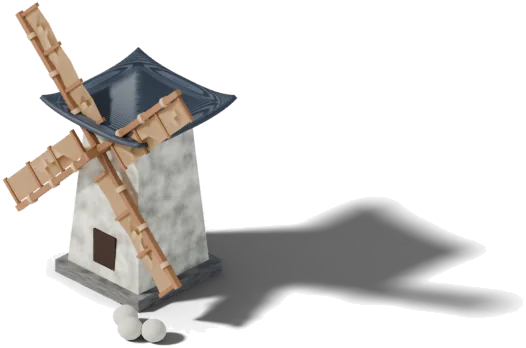
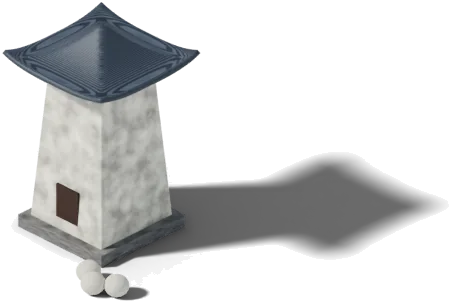
Settlers march out and spread evenly at the start; mills turn their sails
At the start the settlers and the soldiers not garrisoned leave the castle one
by one, half a second apart, and walk to spots spread evenly over its land;
idle settlers then wait within nine tiles of storage so the spread holds.
Mills have their sails rendered as a separate layer in 8 steps of a quarter
turn, drawn over the mill and turning while the miller works.

diff --git a/packages/simulation/src/step.ts b/packages/simulation/src/step.ts
@@ -16,7 +16,7 @@ import { decideShip, launchShip } from './sea.ts';
 import { expireSpells, maxHealth } from './magic.ts';
 import {
   FIELD_RIPE, NO_FIELD, NO_TREE, TERRAIN_GRASS, TERRAIN_MOUNTAIN, TERRAIN_WATER, TREE_MATURE,
-  buildingById, castleOf, inBounds, isMilitaryBuilding, isStorageBuilding, isWalkable, newSettler, playerOf, pushMessage,
+  WAIT_RADIUS, buildingById, castleOf, inBounds, isMilitaryBuilding, isStorageBuilding, isWalkable, newSettler, playerOf, pushMessage,
   recomputeTerritory, settlerById, siteCost, storedTotal, tileIndex, isEnemy
 } from './world.ts';
 import type { Building, PlayerState, Settler, World } from './world.ts';
@@ -86,6 +86,7 @@ export function step(world: World, commands: readonly Command[] = []): CommandRe
   if (world.tick % HEAL_TICKS === 0) healSoldiers(world);
   fillGarrisons(world);
   sendDefenders(world);
+  for (const s of world.settlers) if (s.phase === 'leaving') updateLeaving(world, s);
   for (const s of world.settlers) if (!isUnitType(s.settlerType)) updateSettler(world, s);
   // Soldiers and war machines act in alternating order each tick, so no player always strikes first.
   const soldiers = world.settlers.filter((s) => isUnitType(s.settlerType));
@@ -456,6 +457,8 @@ function updateSettler(world: World, s: Settler): void {
     return;
   }
   switch (s.phase) {
+    // Still waiting for its turn to come out (updateLeaving).
+    case 'leaving': return;
     case 'idle': return updateIdle(world, s);
     case 'toStore': return updateToStore(world, s);
     case 'toPickup': return updatePickup(world, s);
@@ -470,8 +473,6 @@ function updateSettler(world: World, s: Settler): void {
   }
 }
 
-/** How far from a storage area's door idle settlers wait, in tiles. */
-const WAIT_RADIUS = 4;
 
 /**
  * Idle settlers stay in the world: they wait outside, near the nearest storage area on their land, each on a tile of
@@ -490,16 +491,30 @@ function updateIdle(world: World, s: Settler): void {
   if (s.timer > 0) { s.timer--; return; }
   if (s.path.length > 0) { advance(world, s); return; }
   const home = storageFor(world, s.owner, 'log', s.x, s.y, false);
-  if (!home || distance(s.x, s.y, home.doorX, home.doorY) <= WAIT_RADIUS) return;
+  if (!home || distance(s.x, s.y, home.x + home.size / 2 - 0.5, home.y + home.size / 2 - 0.5) <= WAIT_RADIUS) return;
   // Cut off from storage: wait a while before trying again.
   if (!walkTo(world, s, waitingTile(world, s, home))) s.timer = 50;
 }
 
-/** A free spot of the settler's own land near a storage area's door, out of its doorway, to wait on. */
+/**
+ * A settler waiting in a building to come out: when its turn comes it steps out of the door and walks to its spot,
+ * a soldier under orders, a civilian as an idle settler on its way to wait there.
+ */
+function updateLeaving(world: World, s: Settler): void {
+  if (s.timer > 0) { s.timer--; return; }
+  const home = buildingById(world, s.homeId) ?? world.buildings.find((b) => b.owner === s.owner && b.typeId === 'castle');
+  if (home) { s.x = home.doorX; s.y = home.doorY; s.prevX = s.x; s.prevY = s.y; }
+  s.isInside = false; s.homeId = null;
+  const spot = s.targetTile; s.targetTile = -1;
+  const isUnit = isUnitType(s.settlerType) || isSpecialistType(s.settlerType) || s.settlerType === 'priest';
+  s.phase = spot >= 0 && walkTo(world, s, spot) && isUnit ? 'moving' : 'idle';
+}
+
+/** A free spot of the settler's own land near a storage area, out of its doorway, to wait on. */
 function waitingTile(world: World, s: Settler, store: Building): number {
   let best = doorTile(world, store), bestDistance = Infinity;
-  for (let dy = -WAIT_RADIUS + 1; dy <= WAIT_RADIUS - 1; dy++) {
-    for (let dx = -WAIT_RADIUS + 1; dx <= WAIT_RADIUS - 1; dx++) {
+  for (let dy = -4; dy <= 4; dy++) {
+    for (let dx = -4; dx <= 4; dx++) {
       const x = store.doorX + dx, y = store.doorY + dy;
       if (!inBounds(world, x, y)) continue;
       const i = tileIndex(world, x, y);

diff --git a/packages/simulation/src/world.ts b/packages/simulation/src/world.ts
@@ -105,7 +105,9 @@ export type SettlerPhase =
   | 'idle' | 'toPickup' | 'toDrop' | 'toStore' | 'toSite' | 'leveling' | 'building'
   | 'toTool' | 'toWork' | 'inside' | 'toTarget' | 'working' | 'returning'
   | 'toRecruit' | 'toGarrison' | 'defending' | 'moving' | 'attacking'
-  | 'prospecting' | 'claiming' | 'stealing';
+  | 'prospecting' | 'claiming' | 'stealing'
+  /** Waiting inside a building to come out, one after another, and walk to its spot (`targetTile`). */
+  | 'leaving';
 
 export interface Settler {
   id: number;
@@ -793,6 +795,7 @@ function placeCastle(world: World, owner: number, x: number, y: number): void {
   const total = scaled((STARTING_STOCK.plank ?? 0) + (STARTING_STOCK.stone ?? 0), factors.goods);
   castle.stock.plank = Math.round(total * RACE_PLANK_SHARE[race]);
   castle.stock.stone = total - castle.stock.plank;
+  const leaving: Settler[] = [];
   for (const [type, base] of Object.entries(STARTING_SETTLERS) as [SettlerType, number][]) {
     const count = scaled(base, isSoldierType(type) ? factors.soldiers : factors.settlers);
     for (let i = 0; i < count; i++) {
@@ -800,11 +803,50 @@ function placeCastle(world: World, owner: number, x: number, y: number): void {
       if (isSoldierType(type) && castle.garrison.length < castle.garrisonWanted) {
         castle.garrison.push(s.id);
         s.phase = 'inside'; s.homeId = castle.id;
-      } else {
-        // Everyone else waits outside the castle: the rest of the soldiers free to be sent to towers or into battle,
-        // the civilians ready for work. They spread out to a tile each in their first moments.
-        s.isInside = false;
-      }
+      } else leaving.push(s);
     }
   }
+  // Everyone else comes out of the castle one after another and spreads evenly over its land: the soldiers free to
+  // be sent to towers or into battle, the civilians ready for work. Mixed, so neither crowds one side.
+  leaving.sort((a, b) => (a.id * 7919) % 101 - (b.id * 7919) % 101 || a.id - b.id);
+  const spots = spreadSpots(world, castle, leaving.length);
+  leaving.forEach((s, k) => {
+    s.phase = 'leaving'; s.timer = 5 + k * LEAVE_GAP_TICKS; s.targetTile = spots[k % spots.length] ?? -1;
+  });
 }
+
+/** Ticks between two settlers coming out of a building, so they leave one by one. */
+export const LEAVE_GAP_TICKS = 5;
+
+/**
+ * Spots spread evenly over a building's surroundings, nearest first: a sunflower spiral from just outside the
+ * building to `WAIT_RADIUS` tiles from its middle, each spot a free walkable tile out of every doorway.
+ */
+export function spreadSpots(world: World, b: Building, count: number): number[] {
+  const cx = b.x + b.size / 2, cy = b.y + b.size / 2;
+  const inner = b.size / 2 + 1.5, outer = WAIT_RADIUS - 0.5;
+  const taken = new Set<number>();
+  const spots: number[] = [];
+  for (let k = 0; k < count; k++) {
+    const r = inner + (outer - inner) * Math.sqrt((k + 0.5) / Math.max(1, count));
+    const a = k * 2.399963;
+    const tx = Math.round(cx - 0.5 + Math.cos(a) * r), ty = Math.round(cy - 0.5 + Math.sin(a) * r);
+    // The nearest free tile to the spiral's point.
+    let best = -1, bestDistance = Infinity;
+    for (let dy = -2; dy <= 2; dy++) {
+      for (let dx = -2; dx <= 2; dx++) {
+        const x = tx + dx, y = ty + dy;
+        if (!inBounds(world, x, y)) continue;
+        const i = tileIndex(world, x, y);
+        if (taken.has(i) || world.door[i] !== 0 || !isWalkable(world, i)) continue;
+        const d = Math.hypot(dx, dy);
+        if (d < bestDistance) { bestDistance = d; best = i; }
+      }
+    }
+    if (best >= 0) { taken.add(best); spots.push(best); }
+  }
+  return spots;
+}
+
+/** How far from a storage area's middle idle settlers wait, in tiles. */
+export const WAIT_RADIUS = 9;

diff --git a/packages/client/src/renderer.ts b/packages/client/src/renderer.ts
@@ -85,6 +85,8 @@ interface BuildingView {
   root: Container; body: Sprite; scaffold: Sprite; mask: Graphics; marks: Graphics; label: Text; key: string;
   /** Goods piled in the yard and soldiers on the walls, in front of the building and sorted with the settlers. */
   piles: Container; guards: Container;
+  /** A mill's sails, turning while the miller works. */
+  sails: Sprite;
   /** When the building left the world and began to collapse, and where its sprite stood then. */
   collapsedAt?: number; collapseY?: number;
   /** The building's middle, in tiles, for the sound of its collapse. */
@@ -364,8 +366,8 @@ export class MapView {
         });
         label.anchor.set(0.5, 1);
         v = { root: new Container(), body: new Sprite(), scaffold: new Sprite(), mask: new Graphics(), marks: new Graphics(), label, key: '',
-          piles: new Container(), guards: new Container() };
-        v.root.addChild(v.scaffold, v.body, v.mask, v.guards, v.marks, v.label);
+          piles: new Container(), guards: new Container(), sails: new Sprite() };
+        v.root.addChild(v.scaffold, v.body, v.sails, v.mask, v.guards, v.marks, v.label);
         this.upright.addChild(v.root, v.piles);
         this.buildingViews.set(b.id, v);
       }
@@ -388,6 +390,7 @@ export class MapView {
         v.body.mask = v.mask; v.mask.visible = true;
       } else if (v.body.mask) { v.body.mask = null; v.mask.clear(); v.mask.visible = false; }
       v.body.alpha = isRising ? 0.95 : 1;
+      this.drawSails(b, v, cx, cy);
       this.drawBuildingMarks(b, v, cx, cy, !!art, state);
       this.drawPiles(b, v);
       this.drawGuards(b, v, !!art);
@@ -403,7 +406,7 @@ export class MapView {
         v.collapsedAt ??= now;
         const t = (now - v.collapsedAt) / COLLAPSE_MS;
         if (t < 1) {
-          v.piles.visible = false; v.guards.visible = false; v.label.visible = false; v.scaffold.visible = false;
+          v.piles.visible = false; v.guards.visible = false; v.label.visible = false; v.scaffold.visible = false; v.sails.visible = false;
           v.collapseY ??= v.body.y;
           const h = v.body.height;
           // Sinks fast at first, then settles; fades in the second half.
@@ -472,6 +475,17 @@ export class MapView {
     for (let j = k; j < v.piles.children.length; j++) v.piles.children[j].visible = false;
     // In front of the building, sorted with the settlers walking past.
     v.piles.zIndex = b.x + b.y + b.size + 0.1;
+  }
+
+  /** A finished mill's sails: turning a quarter in 8 steps while the miller grinds, at rest otherwise. */
+  private drawSails(b: Building, v: BuildingView, cx: number, cy: number): void {
+    if (b.typeId !== 'mill' || !b.isComplete) { v.sails.visible = false; return; }
+    const worker = b.workerId === null ? undefined : this.world.settlers.find((s) => s.id === b.workerId);
+    const isTurning = !!worker && worker.phase === 'working' && !b.isPaused;
+    const frame = isTurning ? Math.floor(performance.now() / 90) % 8 : b.id % 8;
+    const art = this.bank.buildingPart(this.raceOf(b.owner), `mill_sails_${frame}`);
+    v.sails.visible = !!art && v.body.visible;
+    if (art) this.place(v.sails, art, cx, cy);
   }
 
   /** Soldiers inside a tower or castle stand on its walls, as many as are inside, up to what the top holds. */

diff --git a/packages/simulation/test/spacing.test.ts b/packages/simulation/test/spacing.test.ts
@@ -1,6 +1,6 @@
 import { test } from 'node:test';
 import assert from 'node:assert/strict';
-import { castleOf, createMatch, newBuilding, newSettler, step, tileIndex } from '../src/index.ts';
+import { WAIT_RADIUS, castleOf, createMatch, newBuilding, newSettler, step, tileIndex } from '../src/index.ts';
 
 test('settlers standing still keep a tile each, next to each other, and keep doors free', () => {
   const world = createMatch(5, 'calm', 'small', 'romans', 'romans');
@@ -27,7 +27,7 @@ test('settlers stay in the world: idle ones wait outside near storage, and step 
   assert.ok(idle.length >= 10, 'the starting carriers wait for work');
   for (const s of idle) {
     assert.equal(s.isInside, false, 'outside, not in the castle');
-    assert.ok(Math.hypot(s.x - castle.doorX, s.y - castle.doorY) <= 6, 'near the castle');
+    assert.ok(Math.hypot(s.x - (castle.x + 1.5), s.y - (castle.y + 1.5)) <= WAIT_RADIUS + 0.5, 'around the castle');
   }
   const tiles = idle.map((s) => tileIndex(world, Math.round(s.x), Math.round(s.y)));
   assert.equal(new Set(tiles).size, tiles.length, 'a tile each');

diff --git a/packages/simulation/test/settlers.test.ts b/packages/simulation/test/settlers.test.ts
@@ -161,9 +161,11 @@ test('a geologist takes a hammer, marks the ore on a mountain, and hands the ham
   assert.equal(command(world, { type: 'moveSpecialists', playerId: 0, settlerIds: [geologist.id], x: m.x + 1, y: m.y + 1 }).isAccepted, true);
   runUntil(world, () => world.prospect[0][tileIndex(world, m.x + 1, m.y + 1)] === 1, 2000);
   assert.equal(world.prospect[1]?.[0], undefined, 'a sandbox has one player');
+  // Dismissed, he hands his hammer back (spare builders may have returned theirs meanwhile, so count from here).
+  const before = castle.stock.hammer;
   assert.equal(command(world, { type: 'setSpecialists', playerId: 0, specialistType: 'geologist', count: 0 }).isAccepted, true);
   assert.equal(geologist.settlerType, 'carrier');
-  assert.equal(castle.stock.hammer, hammers);
+  assert.equal(castle.stock.hammer, before + 1);
 });
 
 test('pioneers claim neutral land with posts, but never land an enemy tower holds', () => {

diff --git a/packages/simulation/src/commands.ts b/packages/simulation/src/commands.ts
@@ -537,7 +537,8 @@ function setSpecialistCount(world: World, playerId: number, type: SpecialistType
   while (have < count) {
     const store = world.buildings.find((b) => b.owner === playerId && b.isComplete && BUILDING_TYPES[b.typeId].storageCapacity > 0
       && (tool === null || b.stock[tool] - b.reserved[tool] > 0));
-    const carrier = world.settlers.find((s) => s.owner === playerId && s.settlerType === 'carrier' && s.phase === 'idle' && !s.carrying);
+    // Carriers still coming out of the castle at the start count too: they come out as specialists.
+    const carrier = world.settlers.find((s) => s.owner === playerId && s.settlerType === 'carrier' && (s.phase === 'idle' || s.phase === 'leaving') && !s.carrying);
     if (!store || !carrier) break;
     if (tool) store.stock[tool]--;
     carrier.settlerType = type; carrier.phase = 'idle'; carrier.path = []; carrier.workCentre = -1;

diff --git a/packages/simulation/src/vision.ts b/packages/simulation/src/vision.ts
@@ -161,7 +161,8 @@ export function observe(world: World, playerId: number): Observation {
   for (const s of world.settlers) {
     if (s.owner === playerId) {
       settlerCounts[s.settlerType] = (settlerCounts[s.settlerType] ?? 0) + 1;
-      if (s.settlerType === 'carrier' && s.phase === 'idle' && !s.carrying) freeCarriers++;
+      // Carriers still coming out of a building at the start count as free: they are on their way to wait for work.
+      if (s.settlerType === 'carrier' && (s.phase === 'idle' || s.phase === 'leaving') && !s.carrying) freeCarriers++;
       if (isSpecialistType(s.settlerType) || s.settlerType === 'priest') {
         ownSpecialists.push({ id: s.id, owner: s.owner, settlerType: s.settlerType, x: s.x, y: s.y, health: s.health, phase: s.phase,
           ...(s.settlerType === 'priest' ? { isReady: s.timer === 0 && !s.isInside } : {}) });

diff --git a/packages/client/src/sprites.ts b/packages/client/src/sprites.ts
@@ -90,6 +90,8 @@ export class SpriteBank {
   }
 
   building(race: RaceType, typeId: BuildingTypeId): Sprite | null { return this.sprite(this.manifest?.buildings[`${race}/${typeId}`]); }
+  /** A moving part drawn over a building, rendered from the same camera, such as a mill's sails (`mill_sails_3`). */
+  buildingPart(race: RaceType, name: string): Sprite | null { return this.sprite(this.manifest?.buildings[`${race}/${name}`]); }
   scaffold(size: number): Sprite | null { return this.sprite(this.manifest?.buildings[`scaffold/${size}`]); }
   nature(name: string): Sprite | null { return this.sprite(this.manifest?.nature[name]); }
   good(good: GoodType): Sprite | null { return this.sprite(this.manifest?.goods[good]); }

diff --git a/packages/simulation/src/save.ts b/packages/simulation/src/save.ts
@@ -25,7 +25,7 @@ const PHASES: readonly SettlerPhase[] = [
   'idle', 'toPickup', 'toDrop', 'toStore', 'toSite', 'leveling', 'building',
   'toTool', 'toWork', 'inside', 'toTarget', 'working', 'returning',
   'toRecruit', 'toGarrison', 'defending', 'moving', 'attacking',
-  'prospecting', 'claiming', 'stealing'
+  'prospecting', 'claiming', 'stealing', 'leaving'
 ];
 const MADE_GOODS: readonly string[] = [...TOOL_TYPES, ...WEAPON_TYPES];
 const STAT_KEYS: readonly Exclude<keyof PlayerStats, 'goodsMade'>[] = [

diff --git a/art/blender/buildings.py b/art/blender/buildings.py
@@ -247,7 +247,7 @@ class Builder:
         s = self.s; s.put(TOWN + 'cart.glb', x, y, 0, 20, 0.7)
         for i in range(4): s.sphere(x + (i % 2) * 0.12 - 0.06, y + (i // 2) * 0.1, 0.42, 0.08, m, 0.8)
     def windmill(self, cx, cy, top):
-        s = self.s; s.put(TOWN + 'windmill.glb', cx, cy - 0.62, top - 0.6, 90, 0.95)
+        s = self.s; self.sails = [o for o in s.put(TOWN + 'windmill.glb', cx, cy - 0.62, top - 0.6, 90, 0.95) if o.type == 'MESH']
     def banner(self, x, y, h=1.4, m=None):
         s = self.s; s.box(x, y, 0, 0.05, 0.05, h, self.DARKWOOD); s.box(x + 0.16, y, h - 0.5, 0.3, 0.02, 0.45, m or self.LACQUER)
 
@@ -570,8 +570,31 @@ def render_one(race, typeId):
     recipe(b, typeId)
     b.s.camera(CANVAS[n], int(CANVAS[n] * 1.25), target_z=0.9)
     out = os.path.join(RENDERS, 'buildings', race, typeId + '.png')
+    sails = getattr(b, 'sails', [])
+    for o in sails: o.hide_render = True
     b.s.render(out, 32)
     write_meta(out[:-4] + '.json', {'anchor': b.s.anchor(), 'size': n})
+    if sails: render_sails(b, race, typeId, n, sails)
+
+
+SAIL_FRAMES = 8
+
+
+def render_sails(b, race, typeId, n, sails):
+    """The mill's sails on their own, in 8 steps of a quarter turn (four blades repeat every 90 degrees), drawn over
+    the mill by the game. The mill itself stays in the scene as an invisible holdout, so the sails hide behind it
+    where they should, and casts no second shadow."""
+    sail_set = set(sails)
+    for o in bpy.data.objects:
+        if o.type != 'MESH' or o in sail_set or o.is_shadow_catcher: continue
+        o.is_holdout = True; o.visible_shadow = False
+    for o in sails: o.hide_render = False; o.rotation_mode = 'XYZ'
+    base = [o.rotation_euler.x for o in sails]
+    for k in range(SAIL_FRAMES):
+        for o, x in zip(sails, base): o.rotation_euler.x = x + (math.pi / 2) * k / SAIL_FRAMES
+        out = os.path.join(RENDERS, 'buildings', race, f'{typeId}_sails_{k}.png')
+        b.s.render(out, 24)
+        write_meta(out[:-4] + '.json', {'anchor': b.s.anchor(), 'size': n})
 
 
 def main():

diff --git a/docs/game-design.md b/docs/game-design.md
@@ -184,13 +184,15 @@ Issue #12, phase 6, following the manual.
 
 The map shows what the simulation holds, so a player can read the settlement without opening cards.
 
-- **Settlers stay in the world** unless they occupy a building: its worker, its garrison, or soldiers going in. Idle carriers, builders and diggers wait outside, within four tiles of the nearest storage area on their land; the starting settlers stand in front of the castle; recruits step out of the barracks and new settlers out of their residence.
+- **Settlers stay in the world** unless they occupy a building: its worker, its garrison, or soldiers going in. Idle carriers, builders and diggers wait outside, within nine tiles of the middle of the nearest storage area on their land; recruits step out of the barracks and new settlers out of their residence.
+- **The start:** the settlers and the soldiers not garrisoned come out of the castle one by one, half a second apart, and walk to spots spread evenly over its land (a sunflower spiral from its walls to nine tiles out), soldiers and civilians mixed.
 - **Standing settlers keep a tile each.** One standing still on a tile another one holds, in a doorway, or where a building has since been put up steps to the nearest free tile, so groups stand next to each other. Soldiers, war machines, specialists and priests keep their place before idle civilians, then the lower id, the same for every player.
 - **Entrances connect over own land.** A new building may not cut any of the player's buildings off from the castle over the player's own land, which is where carriers walk. Before, it only had to leave them reachable over any land, so a building could split home territory and strand a mine. A new worker fetches its tool from a storage area on the workplace's own stretch of land.
 - **Walkers are drawn apart.** Settlers closer than their size are drawn pushed apart, never into a building; war machines and ships take more room. Only the drawing moves, not the simulation.
 - **Goods lie where they are.** A building's goods are piled in its yard, one item per good up to piles of eight: what it waits to work on at the front left, what it made at the front right. Storage areas show their piles across the yard, and construction sites show their delivered materials. The castle keeps its goods inside.
 - **Carried goods** are drawn large enough to tell what each carrier and donkey carries.
 - **Work shows:** woodcutters, builders, stonecutters and geologists swing their tool; diggers, pioneers and farmers bend down to dig, sow and plant. Tools are drawn half again as large as life so they read at normal zoom.
+- **Mills turn their sails** while the miller grinds.
 - **Smoke** rises from workshops with a fire while their worker is at work.
 - **Fallen soldiers** fall where they stood, lie a moment and fade.
 - **Demolished buildings collapse:** a building that is demolished, burnt down or brought down sinks into the ground in a cloud of dust. One that only goes out of sight just disappears.
